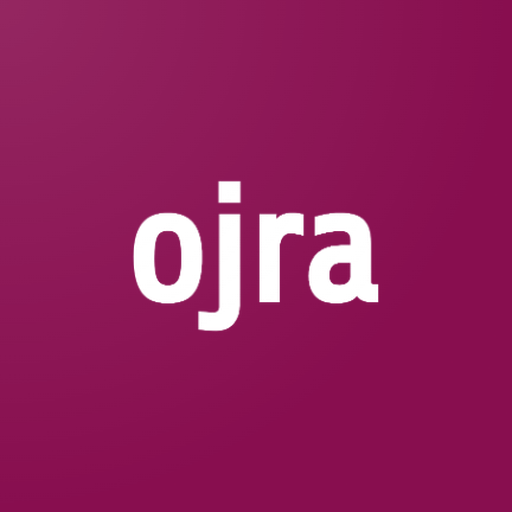
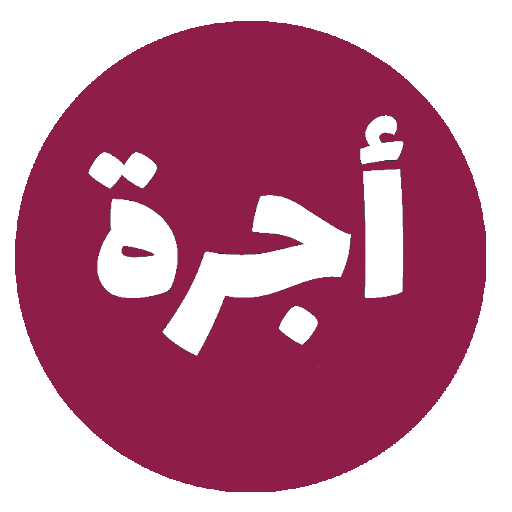
arabic words fixed

diff --git a/lib/l10n.dart b/lib/l10n.dart
@@ -49,7 +49,7 @@ class L10n extends ChangeNotifier {
 final Map<String, Map<String, String>> _strings = {
   // Brand
   'brandName': {
-    'ar': 'أودجرا',
+    'ar': 'أجرة',
     'fr': 'Odjra',
     'en': 'Odjra',
     'tzm': 'ⵓⴷⵊⵔⴰ',
@@ -79,13 +79,13 @@ final Map<String, Map<String, String>> _strings = {
     'tzm': 'ⵢⴰⵏ ⵓⵙⵏⴼⴰⵔ ⴰⴷ ⴽ ⵢⴰⵡⵉ ⵖ ⴽⵓⵍⵍⵓ ⴰⴷⵖⴰⵔ.',
   },
   'heroCtaRider': {
-    'ar': 'حمّل تطبيق الركّاب',
+    'ar': 'حمّل التطبيق',
     'fr': "Télécharger l'app passager",
     'en': 'Get the rider app',
     'tzm': 'ⵙⴷⵔⵙ ⴰⵙⵏⴼⴰⵔ ⵏ ⵓⵔⴰⴽⴰⴱ',
   },
   'heroCtaDriver': {
-    'ar': 'كن سائقاً شريكاً',
+    'ar': 'كن سائقاًً',
     'fr': 'Devenir chauffeur partenaire',
     'en': 'Become a driver partner',
     'tzm': 'ⴰⵡⴹ ⴰⵎⵙⴻⴱⵔⵉⴷ',
@@ -93,20 +93,20 @@ final Map<String, Map<String, String>> _strings = {
 
   // Navigation
   'navHome': {'ar': 'الرئيسية', 'fr': 'Accueil', 'en': 'Home', 'tzm': 'ⴰⵙⵏⵓⴱⴳ'},
-  'navWhy': {'ar': 'لماذا أودجرا؟', 'fr': 'Pourquoi Odjra', 'en': 'Why Odjra', 'tzm': 'ⵎⴰⵅⴼ ⵓⴷⵊⵔⴰ'},
+  'navWhy': {'ar': 'لماذا أجره؟', 'fr': 'Pourquoi Odjra', 'en': 'Why Odjra', 'tzm': 'ⵎⴰⵅⴼ ⵓⴷⵊⵔⴰ'},
   'navDrivers': {'ar': 'السائقون', 'fr': 'Chauffeurs', 'en': 'Drivers', 'tzm': 'ⵉⵏⵙⴻⴱⵔⵉⴷⵏ'},
   'navDownload': {'ar': 'التطبيقات', 'fr': 'Applications', 'en': 'Apps', 'tzm': 'ⵉⵙⵏⴼⴰⵔⵏ'},
   'navTerms': {'ar': 'الشروط والأحكام', 'fr': 'Conditions', 'en': 'Terms', 'tzm': 'ⵜⵉⴼⴰⴷⵉⵡⵉⵏ'},
 
   // Why riders trust us
   'whyTitle': {
-    'ar': 'لماذا يثق بنا الركّاب؟',
+    'ar': 'لماذا يثق بنا الزبائن؟',
     'fr': 'Pourquoi les passagers nous font confiance',
     'en': 'Why riders trust us',
     'tzm': 'ⵎⴰⵅⴼ ⴰ ⵖ ⵜⵜⴰⵎⴰⵏⵏ ⵉⵎⵙⵏⵉⴳ',
   },
   'whySubtitle': {
-    'ar': 'صمّمنا أودجرا ليكون بسيطاً وموثوقاً ومحلياً.',
+    'ar': 'صمّمنا أجرة ليكون بسيطاً وموثوقاً ومحلياً.',
     'fr': 'Odjra est pensé simple, fiable et local.',
     'en': 'Odjra is built to be simple, reliable and local.',
     'tzm': 'ⵓⴷⵊⵔⴰ ⵢⴻⵙⵏⴼⴰⵍ ⴰⴷ ⵢⵉⵍⵉ ⴼⵙⵓⵙ, ⵢⵓⵎⵏ ⴷ ⴰⴷⵖⴰⵔⴰⵏ.',
@@ -234,14 +234,14 @@ final Map<String, Map<String, String>> _strings = {
     'en': 'Pick your version: rider or driver.',
     'tzm': 'ⵙⵜⵉ ⵍⵇⵉⵙⵎ ⵏⵏⴽ: ⴰⵔⴰⴽⴰⴱ ⵏⵖ ⴰⵎⵙⴻⴱⵔⵉⴷ.',
   },
-  'riderAppName': {'ar': 'أودجرا — راكب', 'fr': 'Odjra — Passager', 'en': 'Odjra — Rider', 'tzm': 'ⵓⴷⵊⵔⴰ — ⴰⵔⴰⴽⴰⴱ'},
+  'riderAppName': {'ar': 'أجرة — راكب', 'fr': 'Odjra — Passager', 'en': 'Odjra — Rider', 'tzm': 'ⵓⴷⵊⵔⴰ — ⴰⵔⴰⴽⴰⴱ'},
   'riderAppDesc': {
     'ar': 'للمستخدمين الذين يريدون التنقّل بسهولة.',
     'fr': 'Pour les passagers qui veulent se déplacer facilement.',
     'en': 'For riders who want to get around easily.',
     'tzm': 'ⵉ ⵉⵎⵙⵏⵉⴳ ⵢⴻⴱⵖⴰⵏ ⴰⴷ ⵉⵏⵉⴳ ⵙ ⵜⵉⴼⵔⴰⵜ.',
   },
-  'driverAppName': {'ar': 'أودجرا — سائق', 'fr': 'Odjra — Chauffeur', 'en': 'Odjra — Driver', 'tzm': 'ⵓⴷⵊⵔⴰ — ⴰⵎⵙⴻⴱⵔⵉⴷ'},
+  'driverAppName': {'ar': 'أجرة — سائق', 'fr': 'Odjra — Chauffeur', 'en': 'Odjra — Driver', 'tzm': 'ⵓⴷⵊⵔⴰ — ⴰⵎⵙⴻⴱⵔⵉⴷ'},
   'driverAppDesc': {
     'ar': 'للسائقين المستقلّين الذين يريدون دخلاً مرناً.',
     'fr': 'Pour les chauffeurs indépendants qui veulent un revenu flexible.',
@@ -277,13 +277,13 @@ final Map<String, Map<String, String>> _strings = {
 
   // Footer
   'footerTagline': {
-    'ar': 'أودجرا — نقل بسيط وموثوق في الجزائر.',
+    'ar': 'أجرة — نقل بسيط وموثوق في الجزائر.',
     'fr': 'Odjra — un transport simple et fiable en Algérie.',
     'en': 'Odjra — simple, reliable transport in Algeria.',
     'tzm': 'ⵓⴷⵊⵔⴰ — ⴰⵙⵏⵓⴱⴳ ⵉⴼⵙⵙⴻⵏ ⴷ ⵢⵓⵎⵏ ⴷⵉ ⴷⵣⴰⵢⵔ.',
   },
   'footerRights': {
-    'ar': '© 2026 أودجرا. جميع الحقوق محفوظة.',
+    'ar': '© 2026 أجرة. جميع الحقوق محفوظة.',
     'fr': '© 2026 Odjra. Tous droits réservés.',
     'en': '© 2026 Odjra. All rights reserved.',
     'tzm': '© 2026 ⵓⴷⵊⵔⴰ. ⴰⴽⴽ ⵉⵣⵔⴼⴰⵏ ⵉⵏⵏⴰⵍⵏ.',
